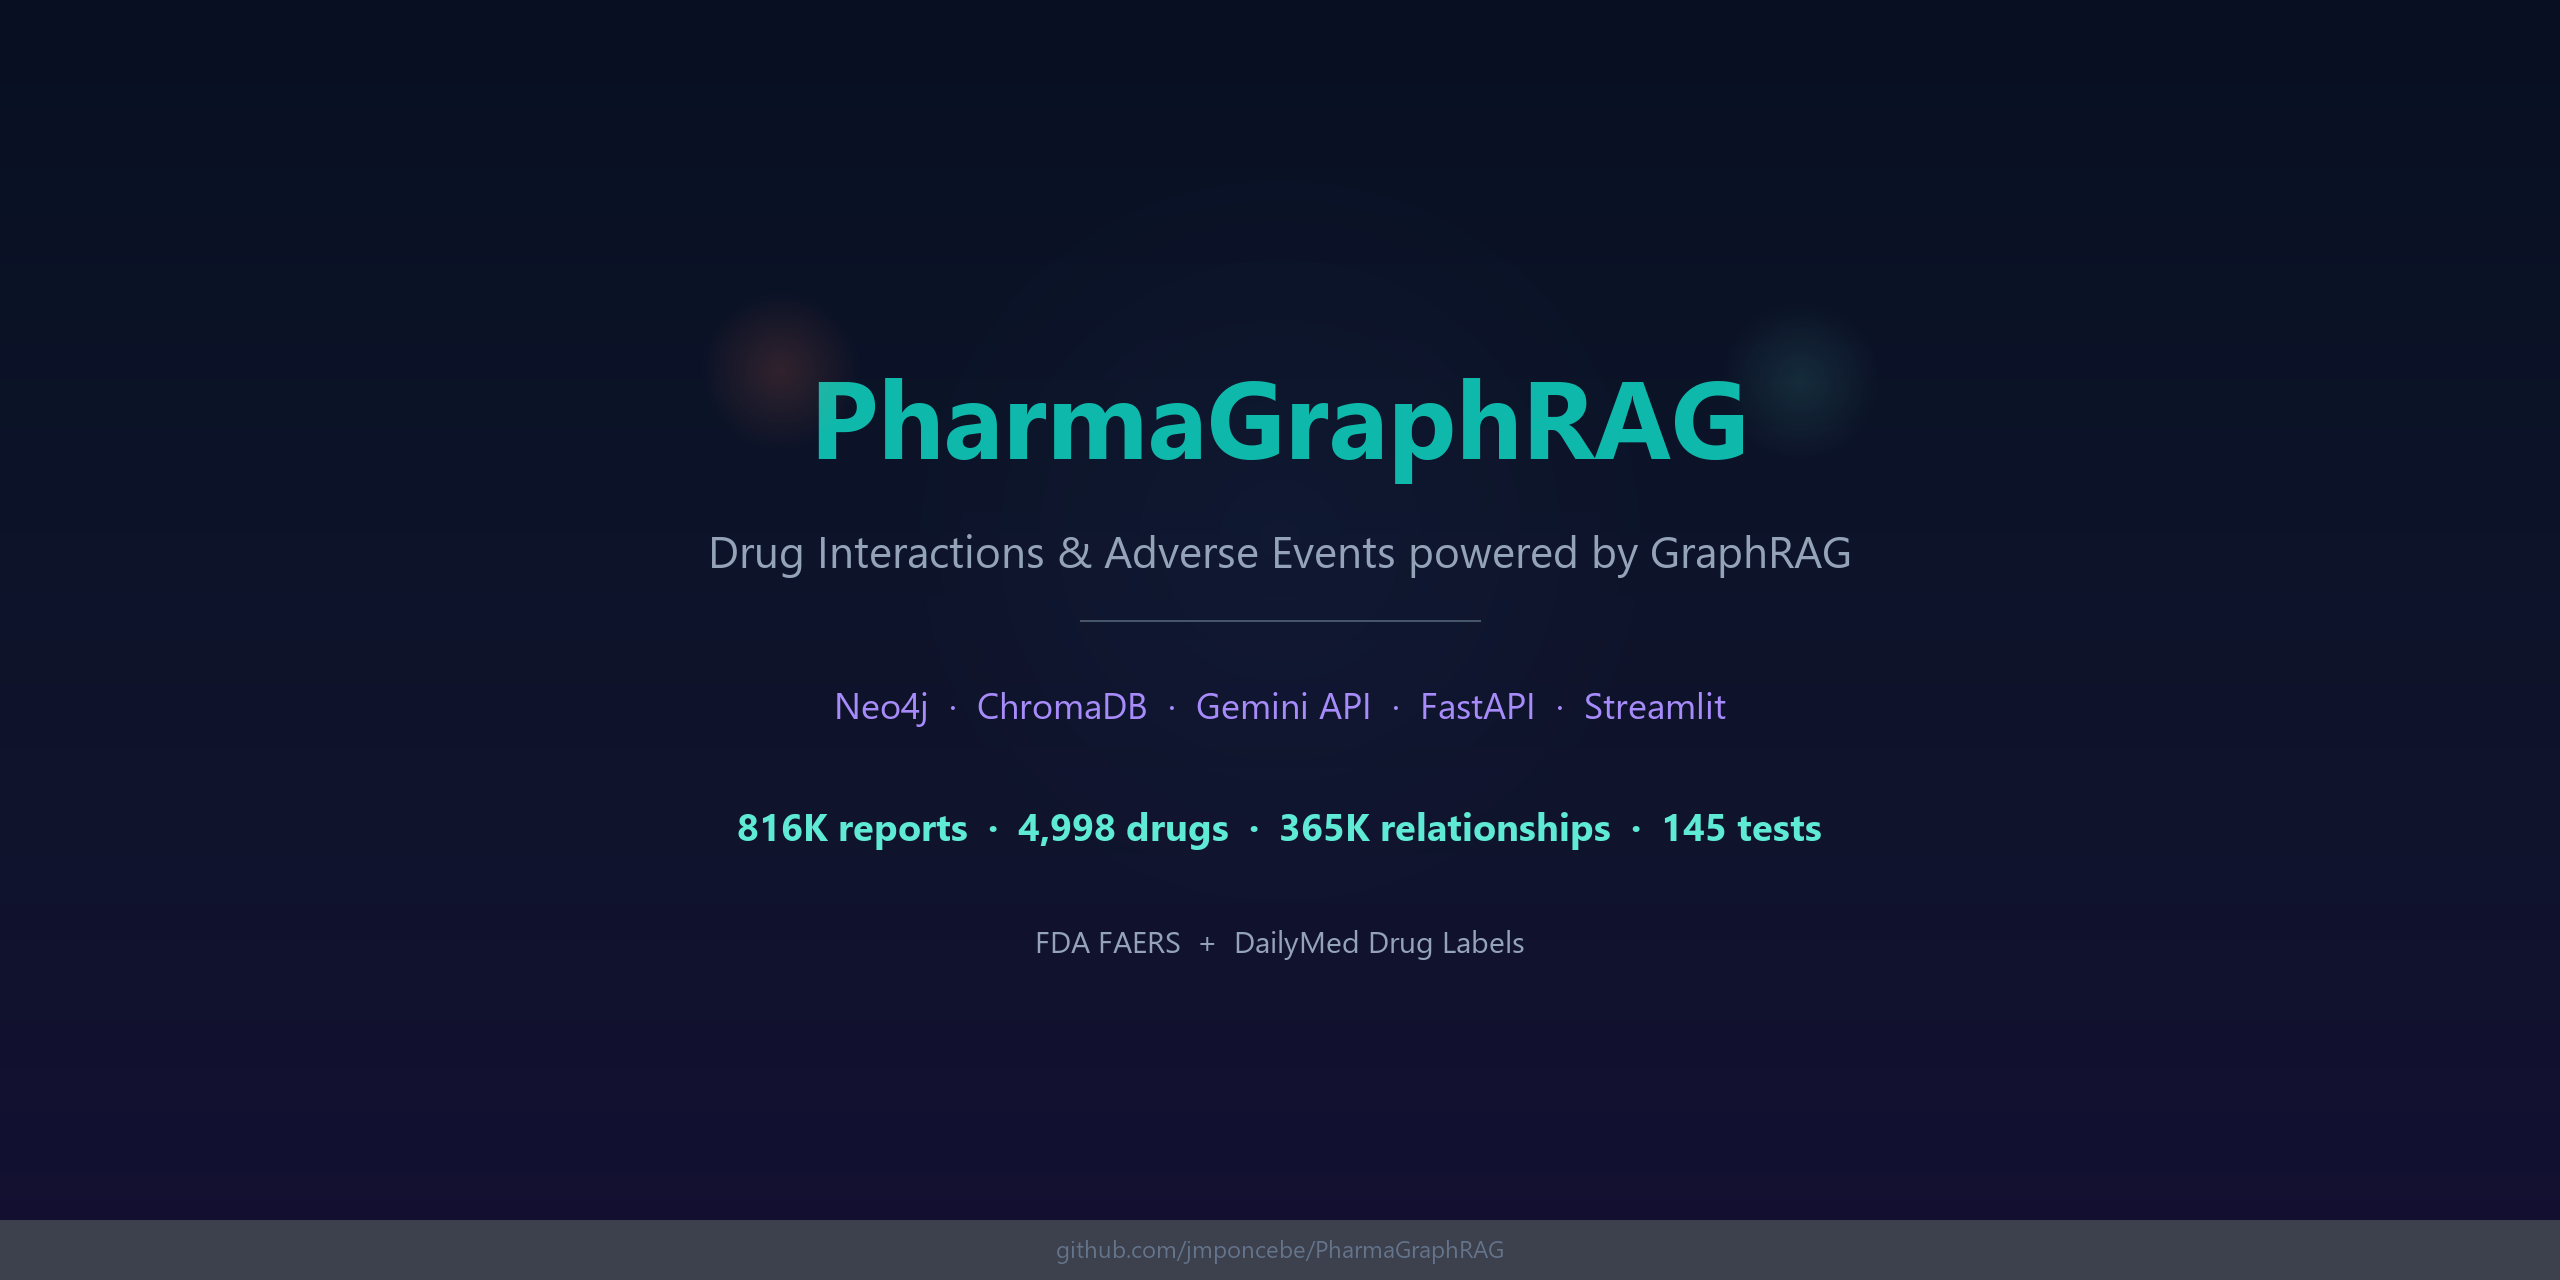
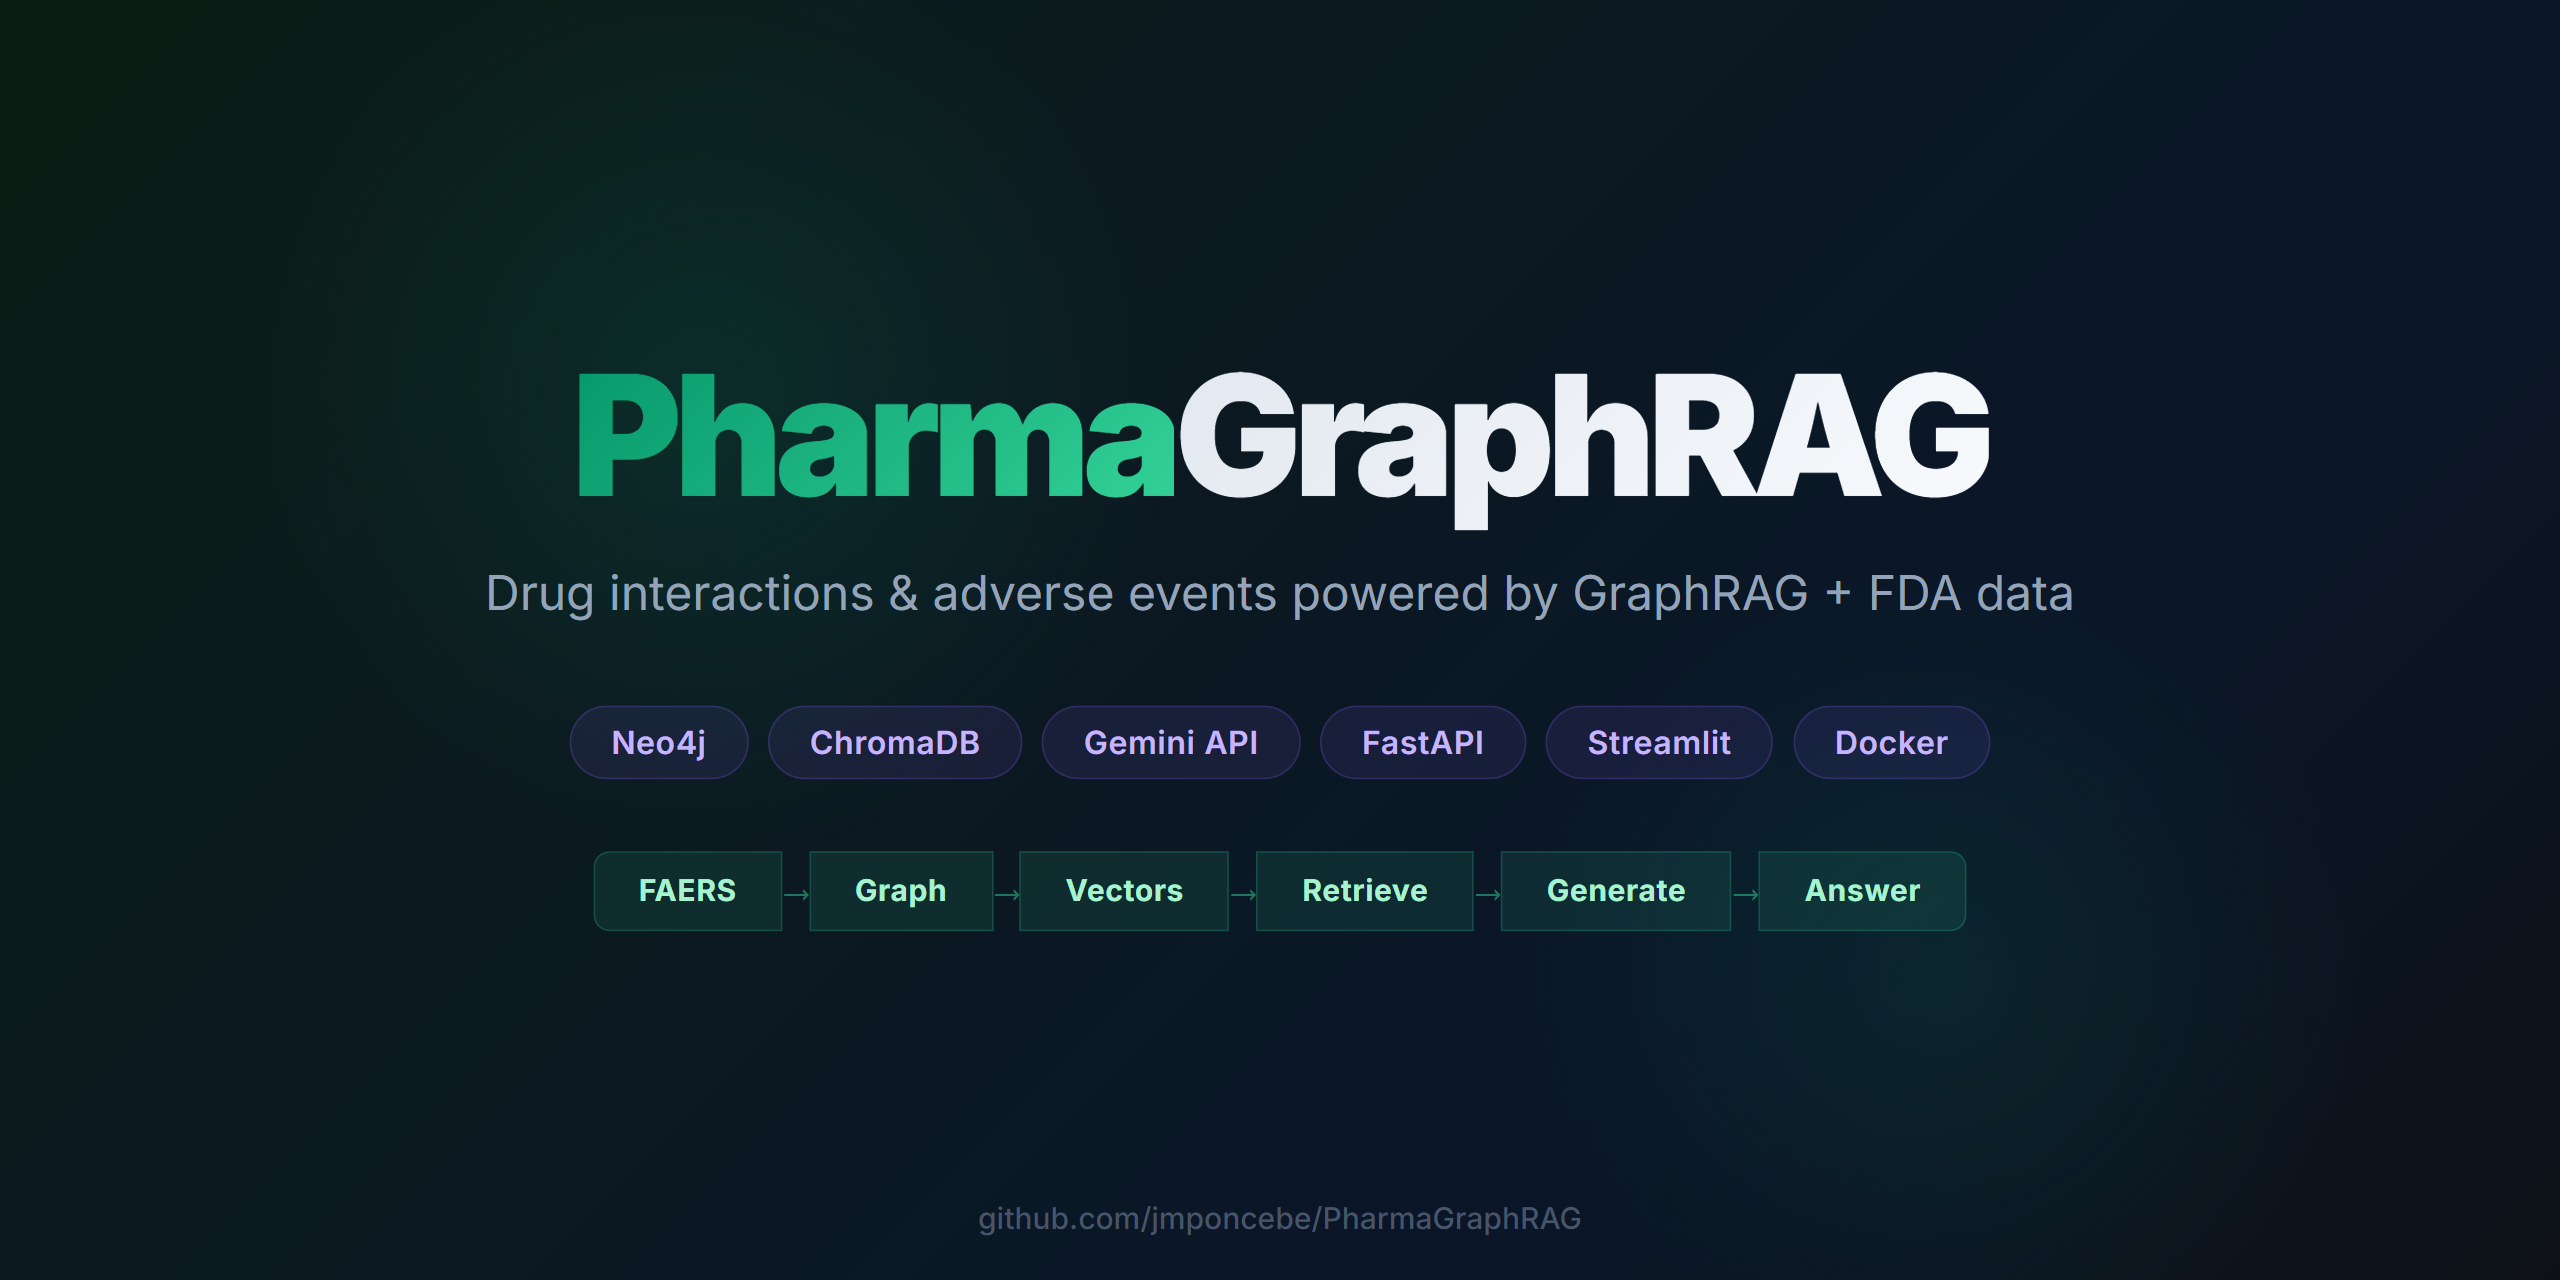
feat: add social preview image and HTML template
- Emerald + white color scheme with purple tags
- 1280x640 optimized PNG (282 KB)
- HTML source template for future regeneration

diff --git a/assets/social-preview.html b/assets/social-preview.html
@@ -1,0 +1,170 @@
+<!DOCTYPE html>
+<html lang="en">
+<head>
+<meta charset="UTF-8">
+<link href="https://fonts.googleapis.com/css2?family=Inter:wght@400;500;600;700;800;900&display=swap" rel="stylesheet">
+<style>
+  * { margin: 0; padding: 0; box-sizing: border-box; }
+  body {
+    width: 1280px;
+    height: 640px;
+    font-family: 'Inter', system-ui, -apple-system, sans-serif;
+    background: linear-gradient(135deg, #0a1e14 0%, #0c1a1e 30%, #0a1628 70%, #0d1117 100%);
+    color: #e6edf3;
+    display: flex;
+    flex-direction: column;
+    justify-content: center;
+    align-items: center;
+    text-align: center;
+    overflow: hidden;
+    position: relative;
+  }
+
+  /* Decorative gradient orbs */
+  body::before {
+    content: '';
+    position: absolute;
+    top: -80px;
+    left: 80px;
+    width: 550px;
+    height: 550px;
+    background: radial-gradient(circle, rgba(5, 150, 105, 0.15) 0%, transparent 60%);
+    border-radius: 50%;
+  }
+  body::after {
+    content: '';
+    position: absolute;
+    bottom: -100px;
+    right: 60px;
+    width: 500px;
+    height: 500px;
+    background: radial-gradient(circle, rgba(16, 185, 129, 0.10) 0%, transparent 60%);
+    border-radius: 50%;
+  }
+
+  .content {
+    z-index: 1;
+    display: flex;
+    flex-direction: column;
+    align-items: center;
+    padding: 0 80px;
+  }
+
+  .title {
+    font-size: 84px;
+    font-weight: 900;
+    letter-spacing: -4px;
+    line-height: 1;
+    margin-bottom: 20px;
+  }
+  .title .pharma {
+    background: linear-gradient(135deg, #059669, #34d399);
+    -webkit-background-clip: text;
+    -webkit-text-fill-color: transparent;
+  }
+  .title .graphrag {
+    background: linear-gradient(135deg, #e2e8f0, #f8fafc);
+    -webkit-background-clip: text;
+    -webkit-text-fill-color: transparent;
+  }
+
+  .subtitle {
+    font-size: 24px;
+    color: #94a3b8;
+    margin-bottom: 40px;
+    line-height: 1.4;
+    font-weight: 400;
+    max-width: 1000px;
+    white-space: nowrap;
+  }
+
+  .tags {
+    display: flex;
+    flex-wrap: wrap;
+    justify-content: center;
+    gap: 10px;
+    margin-bottom: 36px;
+  }
+  .tag {
+    background: rgba(139, 92, 246, 0.10);
+    border: 1px solid rgba(139, 92, 246, 0.22);
+    color: #c4b5fd;
+    padding: 8px 20px;
+    border-radius: 24px;
+    font-size: 16px;
+    font-weight: 600;
+    letter-spacing: 0.3px;
+  }
+
+  .pipeline {
+    display: flex;
+    align-items: center;
+    gap: 0;
+  }
+  .stage {
+    background: rgba(52, 211, 153, 0.10);
+    border: 1px solid rgba(52, 211, 153, 0.20);
+    color: #a7f3d0;
+    padding: 10px 22px;
+    font-size: 15px;
+    font-weight: 700;
+    white-space: nowrap;
+    letter-spacing: 0.3px;
+  }
+  .stage:first-child { border-radius: 8px 0 0 8px; }
+  .stage:last-child { border-radius: 0 8px 8px 0; }
+  .arrow {
+    color: rgba(52, 211, 153, 0.5);
+    font-size: 18px;
+    margin: 0 -1px;
+    z-index: 2;
+  }
+
+  .author {
+    position: absolute;
+    bottom: 22px;
+    font-size: 15px;
+    color: #475569;
+    font-weight: 500;
+    z-index: 1;
+  }
+</style>
+</head>
+<body>
+
+<div class="content">
+  <div class="title">
+    <span class="pharma">Pharma</span><span class="graphrag">GraphRAG</span>
+  </div>
+  <div class="subtitle">
+    Drug interactions & adverse events powered by GraphRAG + FDA data
+  </div>
+
+  <div class="tags">
+    <span class="tag">Neo4j</span>
+    <span class="tag">ChromaDB</span>
+    <span class="tag">Gemini API</span>
+    <span class="tag">FastAPI</span>
+    <span class="tag">Streamlit</span>
+    <span class="tag">Docker</span>
+  </div>
+
+  <div class="pipeline">
+    <div class="stage">FAERS</div>
+    <span class="arrow">→</span>
+    <div class="stage">Graph</div>
+    <span class="arrow">→</span>
+    <div class="stage">Vectors</div>
+    <span class="arrow">→</span>
+    <div class="stage">Retrieve</div>
+    <span class="arrow">→</span>
+    <div class="stage">Generate</div>
+    <span class="arrow">→</span>
+    <div class="stage">Answer</div>
+  </div>
+</div>
+
+<div class="author">github.com/jmponcebe/PharmaGraphRAG</div>
+
+</body>
+</html>
